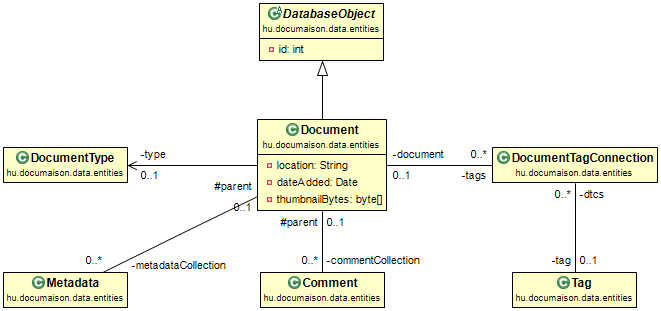
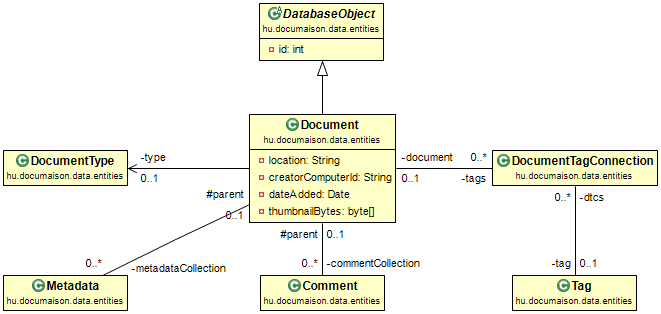
IndexerCollection added.

diff --git a/hu.documaison.indexing/src/hu/documaison/indexing/IndexerImpl.java b/hu.documaison.indexing/src/hu/documaison/indexing/IndexerImpl.java
@@ -14,23 +14,25 @@ import hu.documaison.data.entities.Metadata;
 import hu.documaison.data.exceptions.InvalidFolderException;
 import hu.documaison.data.exceptions.InvalidParameterException;
 import hu.documaison.data.exceptions.UnableToCreateException;
+import hu.documaison.data.exceptions.UnknownDocumentException;
 import hu.documaison.data.exceptions.UnknownDocumentTypeException;
 import hu.documaison.data.helper.DocumentFilePointer;
 
-public class IndexingImpl implements IndexingInterface {
+class IndexerImpl implements IndexerInterface {
 	private BllInterface bll = null;
 	private String folder;
 	private String currentComputerId;
 	private Collection<DocumentFilePointer> lastPointers = null;
 
-	public IndexingImpl(String folder, String currentComputerId,
+	public IndexerImpl(String folder, String currentComputerId,
 			BllInterface bll) throws InvalidParameterException {
 		setFolder(folder);
 		setCurrentComputerId(currentComputerId);
 		setBll(bll);
 	}
 
-	private void setCurrentComputerId(String currentComputerId) throws InvalidParameterException {
+	private void setCurrentComputerId(String currentComputerId)
+			throws InvalidParameterException {
 		if (currentComputerId != null) {
 			this.currentComputerId = currentComputerId;
 		} else {
@@ -71,7 +73,29 @@ public class IndexingImpl implements IndexingInterface {
 	}
 
 	private void onDeleted(int documentId) {
-		System.err.println("DELETED: id = " + documentId);
+		// best effort (fail silent)
+		System.err.println("REMOVE: id = " + documentId);
+
+		Document document;
+		try {
+			document = bll.getDocument(documentId);
+		} catch (UnknownDocumentException e) {
+			return;
+		}
+		if (document == null) {
+			return;
+		}
+
+		if (!document.getCreatorComputerId()
+				.equalsIgnoreCase(currentComputerId)) {
+			// This document was created on another computer.
+			// This instance doesn't have the right to delete it.
+			return;
+		} else {
+			bll.removeDocument(documentId);
+			// TODO cascade delete check!
+		}
+
 	}
 
 	private String fileExtension(Path path) {
@@ -98,6 +122,7 @@ public class IndexingImpl implements IndexingInterface {
 		try {
 			newDoc = bll.createDocument(dt.getId());
 			newDoc.setLocation(path.toString());
+			newDoc.setCreatorComputerId(this.currentComputerId);
 			newDoc.setDateAdded(new Date());
 			bll.updateDocument(newDoc);
 

diff --git a/hu.documaison.indexing/src/hu/documaison/indexing/IndexerFactory.java b/hu.documaison.indexing/src/hu/documaison/indexing/IndexerFactory.java
@@ -1,0 +1,35 @@
+package hu.documaison.indexing;
+
+import hu.documaison.bll.interfaces.BllInterface;
+import hu.documaison.data.exceptions.InvalidFolderException;
+import hu.documaison.data.exceptions.InvalidParameterException;
+import hu.documaison.data.exceptions.SettingsAccessException;
+import hu.documaison.settings.SettingsData;
+import hu.documaison.settings.SettingsManager;
+
+public class IndexerFactory {
+	public static IndexerInterface getIndexing(String folderPath,
+			String currentComputerId, BllInterface bll)
+			throws InvalidFolderException, InvalidParameterException {
+		IndexerImpl impl = new IndexerImpl(folderPath, currentComputerId, bll);
+		return impl;
+	}
+	
+	public static IndexerCollection getAllIndexers(BllInterface bll) throws SettingsAccessException, InvalidFolderException, InvalidParameterException{
+		// load settings
+		SettingsData settings;
+		try {
+			settings = SettingsManager.getCurrentSettings();
+		} catch (Exception e) {
+			throw new SettingsAccessException();
+		}
+		String computerId = (settings != null ? settings.getComputerId() : "");
+
+		// create indexer collection
+		IndexerCollection indexerColl = new IndexerCollection();
+		for (String folder : settings.getIndexedFolders()){
+			indexerColl.addIndexer(getIndexing(folder, computerId, bll));
+		}
+		return indexerColl;
+	}
+}

diff --git a/hu.documaison.data/src/hu/documaison/data/entities/Document.java b/hu.documaison.data/src/hu/documaison/data/entities/Document.java
@@ -17,9 +17,13 @@ public class Document extends DatabaseObject {
 	public static final String METADATA = "metadata";
 	public static final String COMMENTS = "comments";
 	public static final String LOCATION = "location";
+	protected static final String CREATOR_COMPUTERID = "creator_computerid";
 
-	@DatabaseField(columnName = "location")
+	@DatabaseField(columnName = LOCATION)
 	private String location;
+
+	@DatabaseField(columnName = CREATOR_COMPUTERID)
+	private String creatorComputerId;
 
 	@DatabaseField(foreign = true, foreignAutoRefresh = true)
 	private DocumentType type;
@@ -69,6 +73,15 @@ public class Document extends DatabaseObject {
 		this.location = location;
 	}
 
+	public String getCreatorComputerId() {
+		return creatorComputerId;
+	}
+
+	public void setCreatorComputerId(String creatorComputerId) {
+		this.creatorComputerId = creatorComputerId;
+	}
+
+	
 	/**
 	 * @return the type
 	 */

diff --git a/hu.documaison.indexing/src/IndexingTest.java b/hu.documaison.indexing/src/IndexingTest.java
@@ -1,7 +1,7 @@
 import hu.documaison.bll.interfaces.BllImplementation;
 import hu.documaison.data.exceptions.InvalidParameterException;
-import hu.documaison.indexing.IndexingFactory;
-import hu.documaison.indexing.IndexingInterface;
+import hu.documaison.indexing.IndexerFactory;
+import hu.documaison.indexing.IndexerInterface;
 import hu.documaison.settings.SettingsData;
 import hu.documaison.settings.SettingsManager;
 
@@ -22,9 +22,9 @@ public class IndexingTest {
 
 		System.out.println("Computer ID: " + computerId);
 
-		IndexingInterface indexer;
+		IndexerInterface indexer;
 		try {
-			indexer = IndexingFactory.getIndexing("W:\\dmtemp", computerId, 
+			indexer = IndexerFactory.getIndexing("W:\\dmtemp", computerId, 
 					new BllImplementation());
 		} catch (InvalidParameterException e) {
 			e.printStackTrace();

diff --git a/hu.documaison.indexing/src/hu/documaison/indexing/IndexerCollection.java b/hu.documaison.indexing/src/hu/documaison/indexing/IndexerCollection.java
@@ -1,0 +1,18 @@
+package hu.documaison.indexing;
+
+import java.util.ArrayList;
+import java.util.Collection;
+
+public class IndexerCollection {
+	private Collection<IndexerInterface> indexers = new ArrayList<IndexerInterface>();
+	
+	public void addIndexer(IndexerInterface indexer){
+		this.indexers.add(indexer);
+	}
+	
+	public void refreshAll(){
+		for (IndexerInterface indexer : indexers){
+			indexer.refresh();
+		}
+	}
+}

diff --git a/hu.documaison.indexing/src/hu/documaison/indexing/IndexerInterface.java b/hu.documaison.indexing/src/hu/documaison/indexing/IndexerInterface.java
@@ -2,7 +2,7 @@ package hu.documaison.indexing;
 import hu.documaison.bll.interfaces.BllInterface;
 
 
-public interface IndexingInterface {
+public interface IndexerInterface {
 	//public void setBll(BllInterface bll);
 	//public void addFolderToIndex(String folder);
 	//public void addRefreshEventHandler(IndexingEventHandler e);

diff --git a/hu.documaison.data/src/hu/documaison/data/exceptions/SettingsAccessException.java b/hu.documaison.data/src/hu/documaison/data/exceptions/SettingsAccessException.java
@@ -1,0 +1,9 @@
+package hu.documaison.data.exceptions;
+
+public class SettingsAccessException extends Exception {
+	private static final long serialVersionUID = -2412470829074465687L;
+
+	public SettingsAccessException() {
+		super();
+	}
+}
